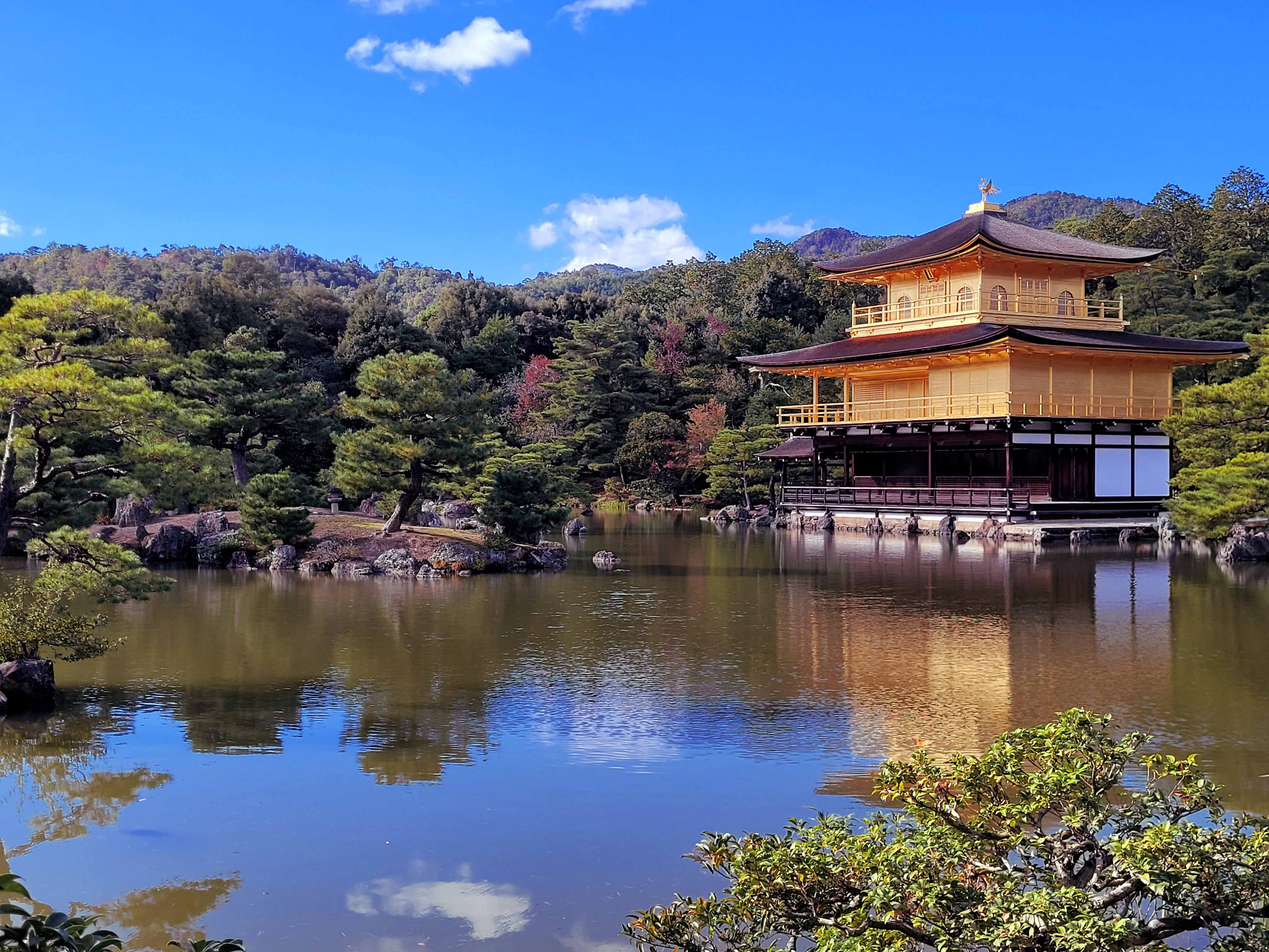
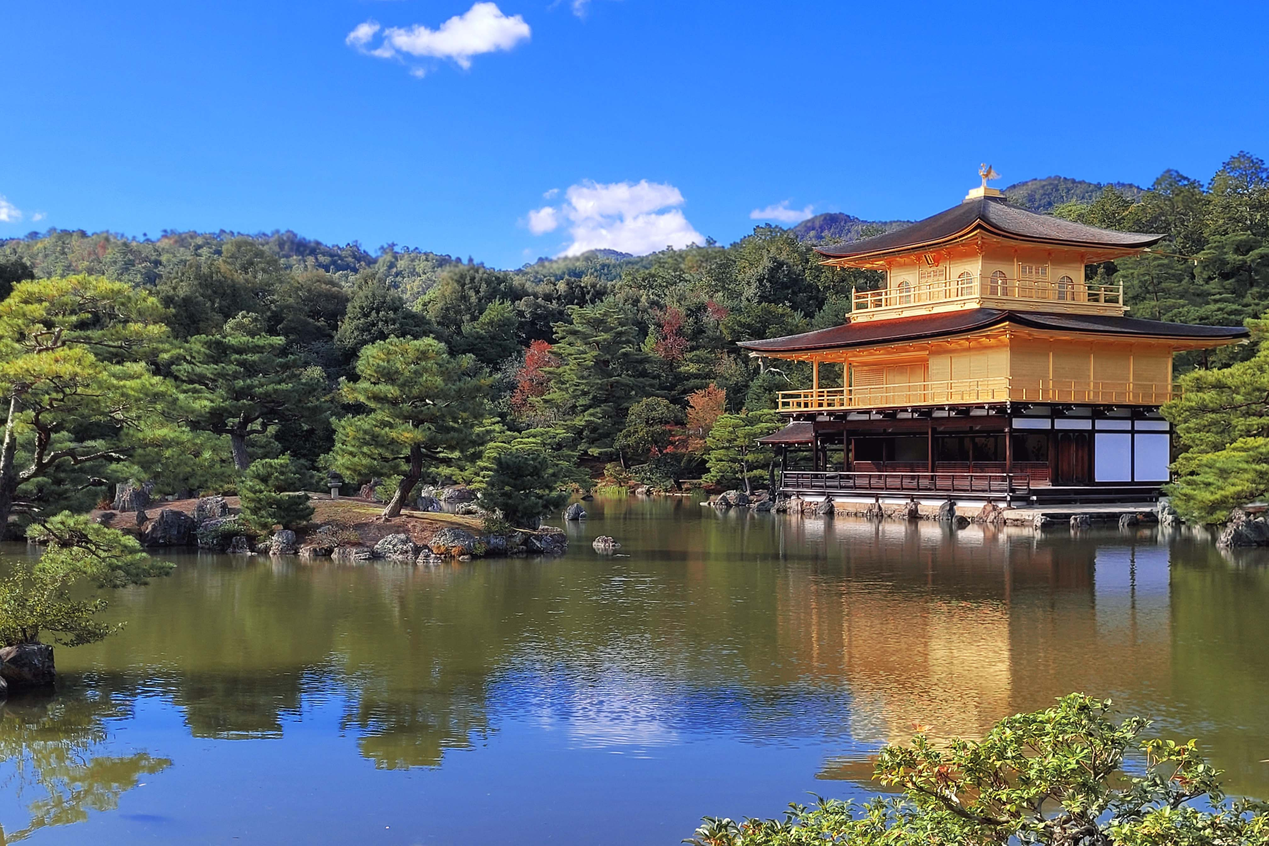
update

diff --git a/shortcv.md b/shortcv.md
@@ -123,7 +123,7 @@ accent_image: /assets/img/background/bromo.jpg
 	<tr>
 		<td>09/2018</td>
 		<td>Dr. rer. nat. (Theoretical Physics)<br />
-			Technical University Berlin<br />
+			Technical University of Berlin<br />
 			Thesis: <a href="http://dx.doi.org/10.14279/depositonce-7516" target="_blank"><i>Modeling and simulation of electrically driven quantum dot based single-photon sources &mdash; From classical device physics to open quantum systems</i></a><br />
             Advisors: A.&nbsp;Knorr, U.&nbsp;Bandelow<br />
 			Grade: <i>summa cum laude</i>
@@ -135,7 +135,7 @@ accent_image: /assets/img/background/bromo.jpg
 	<tr>
 		<td>11/2013</td>
 		<td>Master of Science (Physics)<br />
-			Humboldt-University Berlin<br />
+			Humboldt-University of Berlin<br />
 			Thesis: <i>Patterns in regular networks of delay-coupled neurons</i><br />
             Advisor: S.&nbsp;Yanchuk
 			<!--<br />
@@ -146,7 +146,7 @@ accent_image: /assets/img/background/bromo.jpg
 	<tr>
 		<td>10/2010</td>
 		<td>Bachelor of Science (Physics, Mathematics)<br />
-			Humboldt-University Berlin<br />
+			Humboldt-University of Berlin<br />
 			Thesis: <i>Subthreshold oscillations and hysteresis in a neuronal model</i><br />
             Advisor: M.&nbsp;Zaks
 			<!--<br />

diff --git a/misc.md b/misc.md
@@ -2,7 +2,7 @@
 layout: page
 title: Misc
 permalink: /misc
-accent_image: /assets/img/background/sapa.jpg
+accent_image: /assets/img/background/kyoto.jpg
 ---
 
 <style type="text/css">
